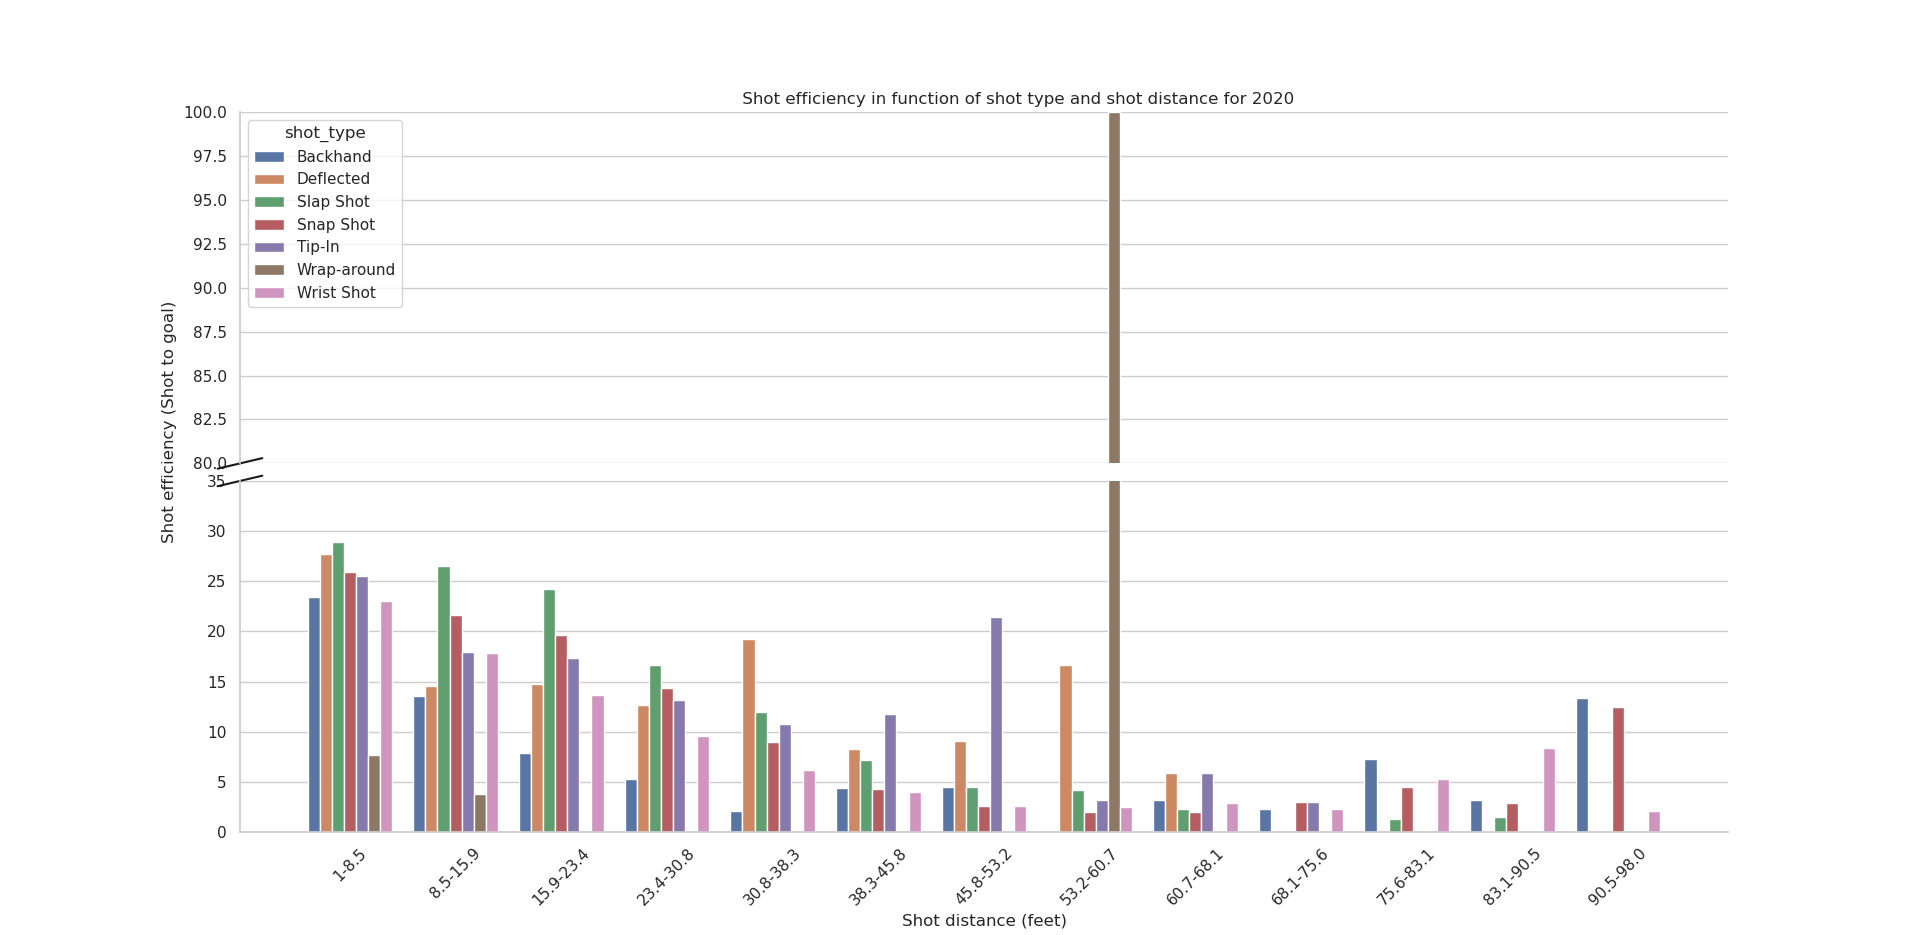
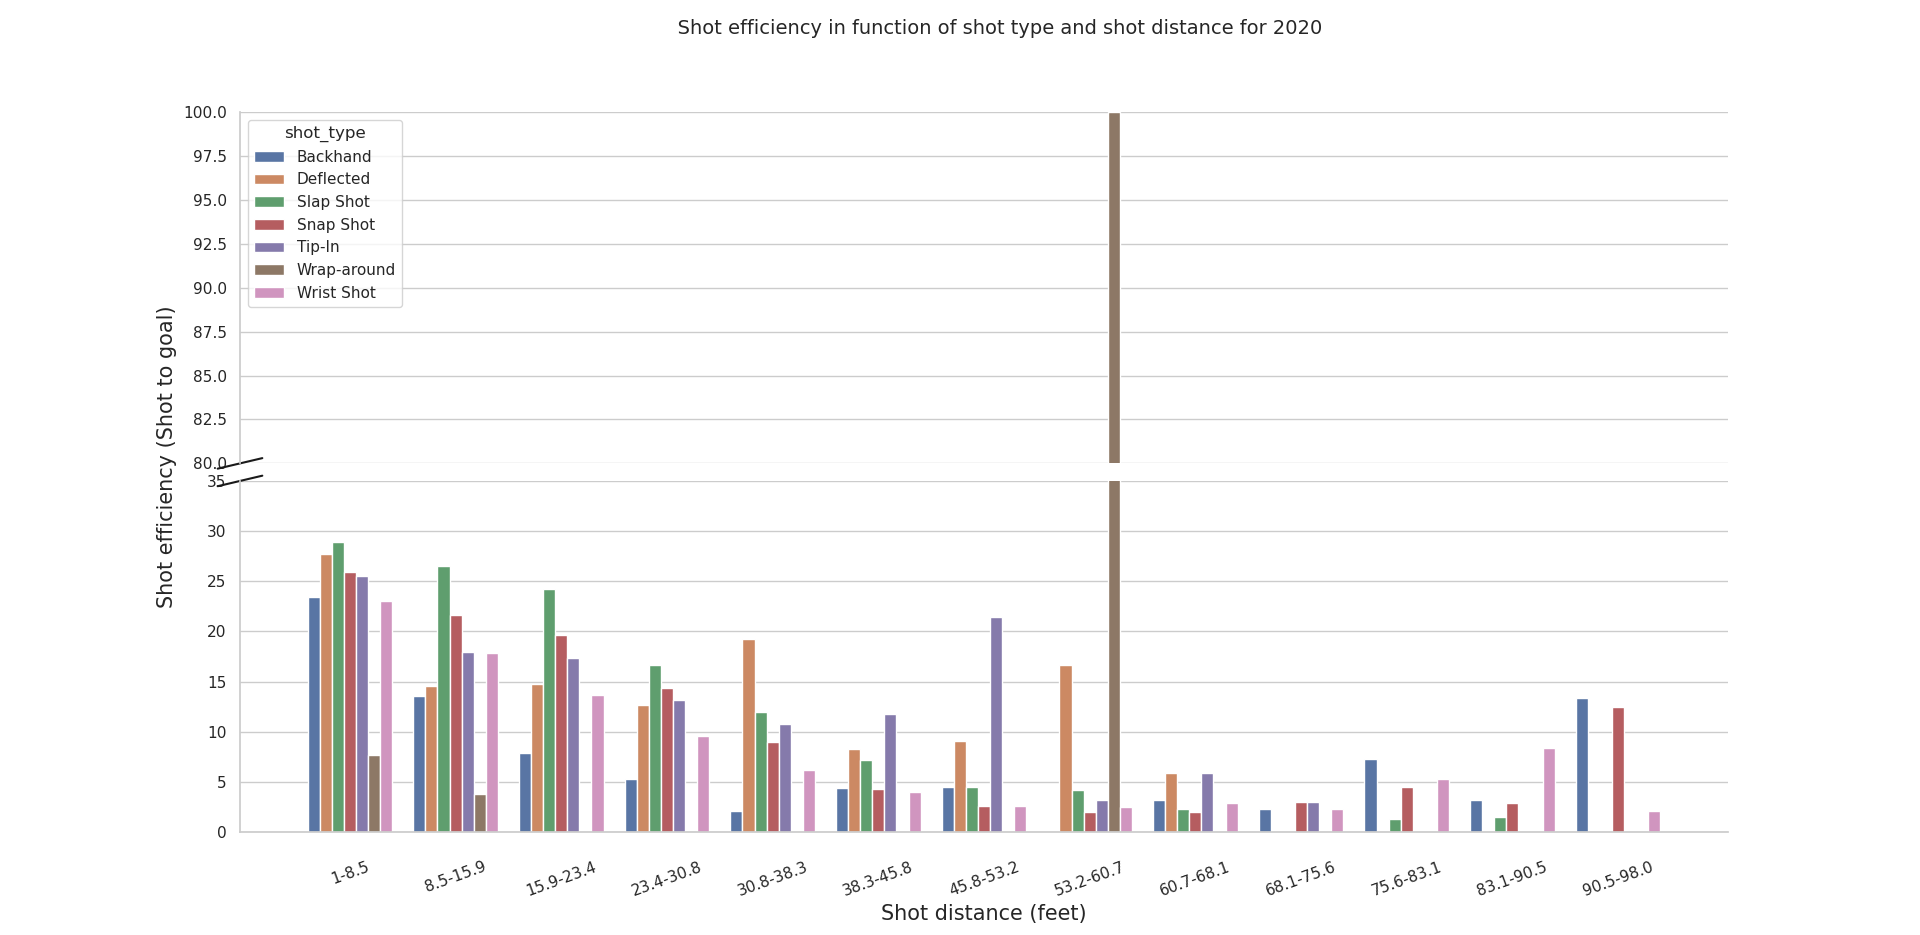
Updated graphs and minor aspect changes to code

diff --git a/project/ift6758/data/Visualisation.py b/project/ift6758/data/Visualisation.py
@@ -1,6 +1,4 @@
 import matplotlib.pyplot as plt
-from nest_asyncio import apply
-from numpy.core.fromnumeric import size
 import pandas as pd
 import numpy as np
 import seaborn as sns
@@ -12,7 +10,6 @@ file_path = os.path.join(dirpath, 'games_data_all_seasons.csv')
 df = pd.read_csv(file_path)
 
 ### Part1
-
 ### Number_of_shots_and_number_of_Goals_per_Shot_types
 
 df['game_pk'] = df['game_pk'].astype(str)
@@ -56,12 +53,6 @@ plt.show()
 
 
 ### Part 2
-#### Reading NewDataFrame done by Laurence's Code generating a team_side column
-### New Dataset'name is "events_new_coor"
-### DataFrame
-
-
-#events = pd.read_csv(file_path)
 events_new_coor = df.copy()[~(df['coordinate_x'].isnull()) & (~df['coordinate_y'].isnull())]
 
 ### Adjusting the negative values of coordinate x depending on the team's side
@@ -92,7 +83,7 @@ labels = ["1-8.5", "8.5-15.9", "15.9-23.4", "23.4-30.8", "30.8-38.3", "38.3-45.8
 ### add the bins to the dataframe :
 events_new_coor_2018["bin_Shot_distance"] = pd.cut(events_new_coor_2018["shot_distance"], bins=bins, labels=labels, include_lowest=True)
 
-### loop qui itere sur chaque bin et filtre le dataframe pour conserver seulement les valeurs dans le bin
+### loop qui itere sur chaque bin et filtre le dataframe pour conserver seulement les valeurs qui dans le bin
 list_of_Percentage_2018 = []
 for i in range(len(labels)):
     temp_df = events_new_coor_2018[events_new_coor_2018["bin_Shot_distance"]==labels[i]]
@@ -135,7 +126,7 @@ for i in range(len(labels)):
 
 ### Plotting the BarPlot
 fig, axs = plt.subplots(3)
-fig.suptitle('Chance of scoring a goal in function of shot distance for seasons 2018, 2019, 2020                                               ')
+fig.suptitle('Chance of scoring a goal in function of shot distance for seasons 2018, 2019, 2020', size=14)
 sns.set_theme(style="whitegrid")
 sns.barplot(labels, list_of_Percentage_2018, color='black', alpha=0.6, ax=axs[0])
 sns.barplot(labels, list_of_Percentage_2019, color='black', alpha=0.6, ax=axs[1])
@@ -145,10 +136,11 @@ axs[1].set(title='Season 2019')
 axs[2].set(title='Season 2020')
 axs[0].get_xaxis().set_visible(False)
 axs[1].get_xaxis().set_visible(False)
-plt.xticks(fontsize=9, rotation=45)
+plt.xticks(fontsize=12, rotation=22)
 plt.ylim(0, 25)
-plt.ylabel('                                                                                                  Percentage of scoring shots', fontsize=12)
-plt.xlabel('Shot distance (feet)', fontsize=12)
+plt.ylabel('                                                                                Percentage of scoring shots', fontsize=16)
+plt.xlabel('Shot distance (feet)', fontsize=14)
+plt.xticks(size=13)
 plt.show()
 
 
@@ -162,6 +154,7 @@ events_new_coor_2020_grouped_df.reset_index(inplace=True)
 ### Plotting the BarPlot   Season 2020
 sns.set_theme(style="whitegrid")
 f, (ax_top, ax_bottom) = plt.subplots(ncols=1, nrows=2, sharex=True, gridspec_kw={'hspace':0.05})
+f.suptitle('             Shot efficiency in function of shot type and shot distance for 2020', fontsize=14)
 sns.barplot(x="bin_Shot_distance", y="shot_efficiency", hue="shot_type",data=events_new_coor_2020_grouped_df, ax=ax_top)
 sns.barplot(x="bin_Shot_distance", y="shot_efficiency", hue="shot_type",data=events_new_coor_2020_grouped_df, ax=ax_bottom)
 ax_top.set_ylim(bottom=80, top=100) 
@@ -177,8 +170,8 @@ ax2.set(ylabel=None)
 ax_top.get_xaxis().set_visible(False)
 kwargs.update(transform=ax2.transAxes)
 ax2.plot((-d, +d), (1 - d, 1 + d), **kwargs)
-ax2.tick_params(axis='x', labelrotation=45 )
+ax_bottom.tick_params(axis='x', labelrotation=20, size=16)
 ax_bottom.legend_.remove()
-ax.set(ylabel='Shot efficiency (Shot to goal)                                                   ', title='             Shot efficiency in function of shot type and shot distance for 2020')
-ax_bottom.set(xlabel='Shot distance (feet)')
+ax_bottom.set_xlabel(xlabel='Shot distance (feet)',size=15)
+ax.set_ylabel(ylabel='Shot efficiency (Shot to goal)                                                   ',fontsize=15)
 plt.show()
